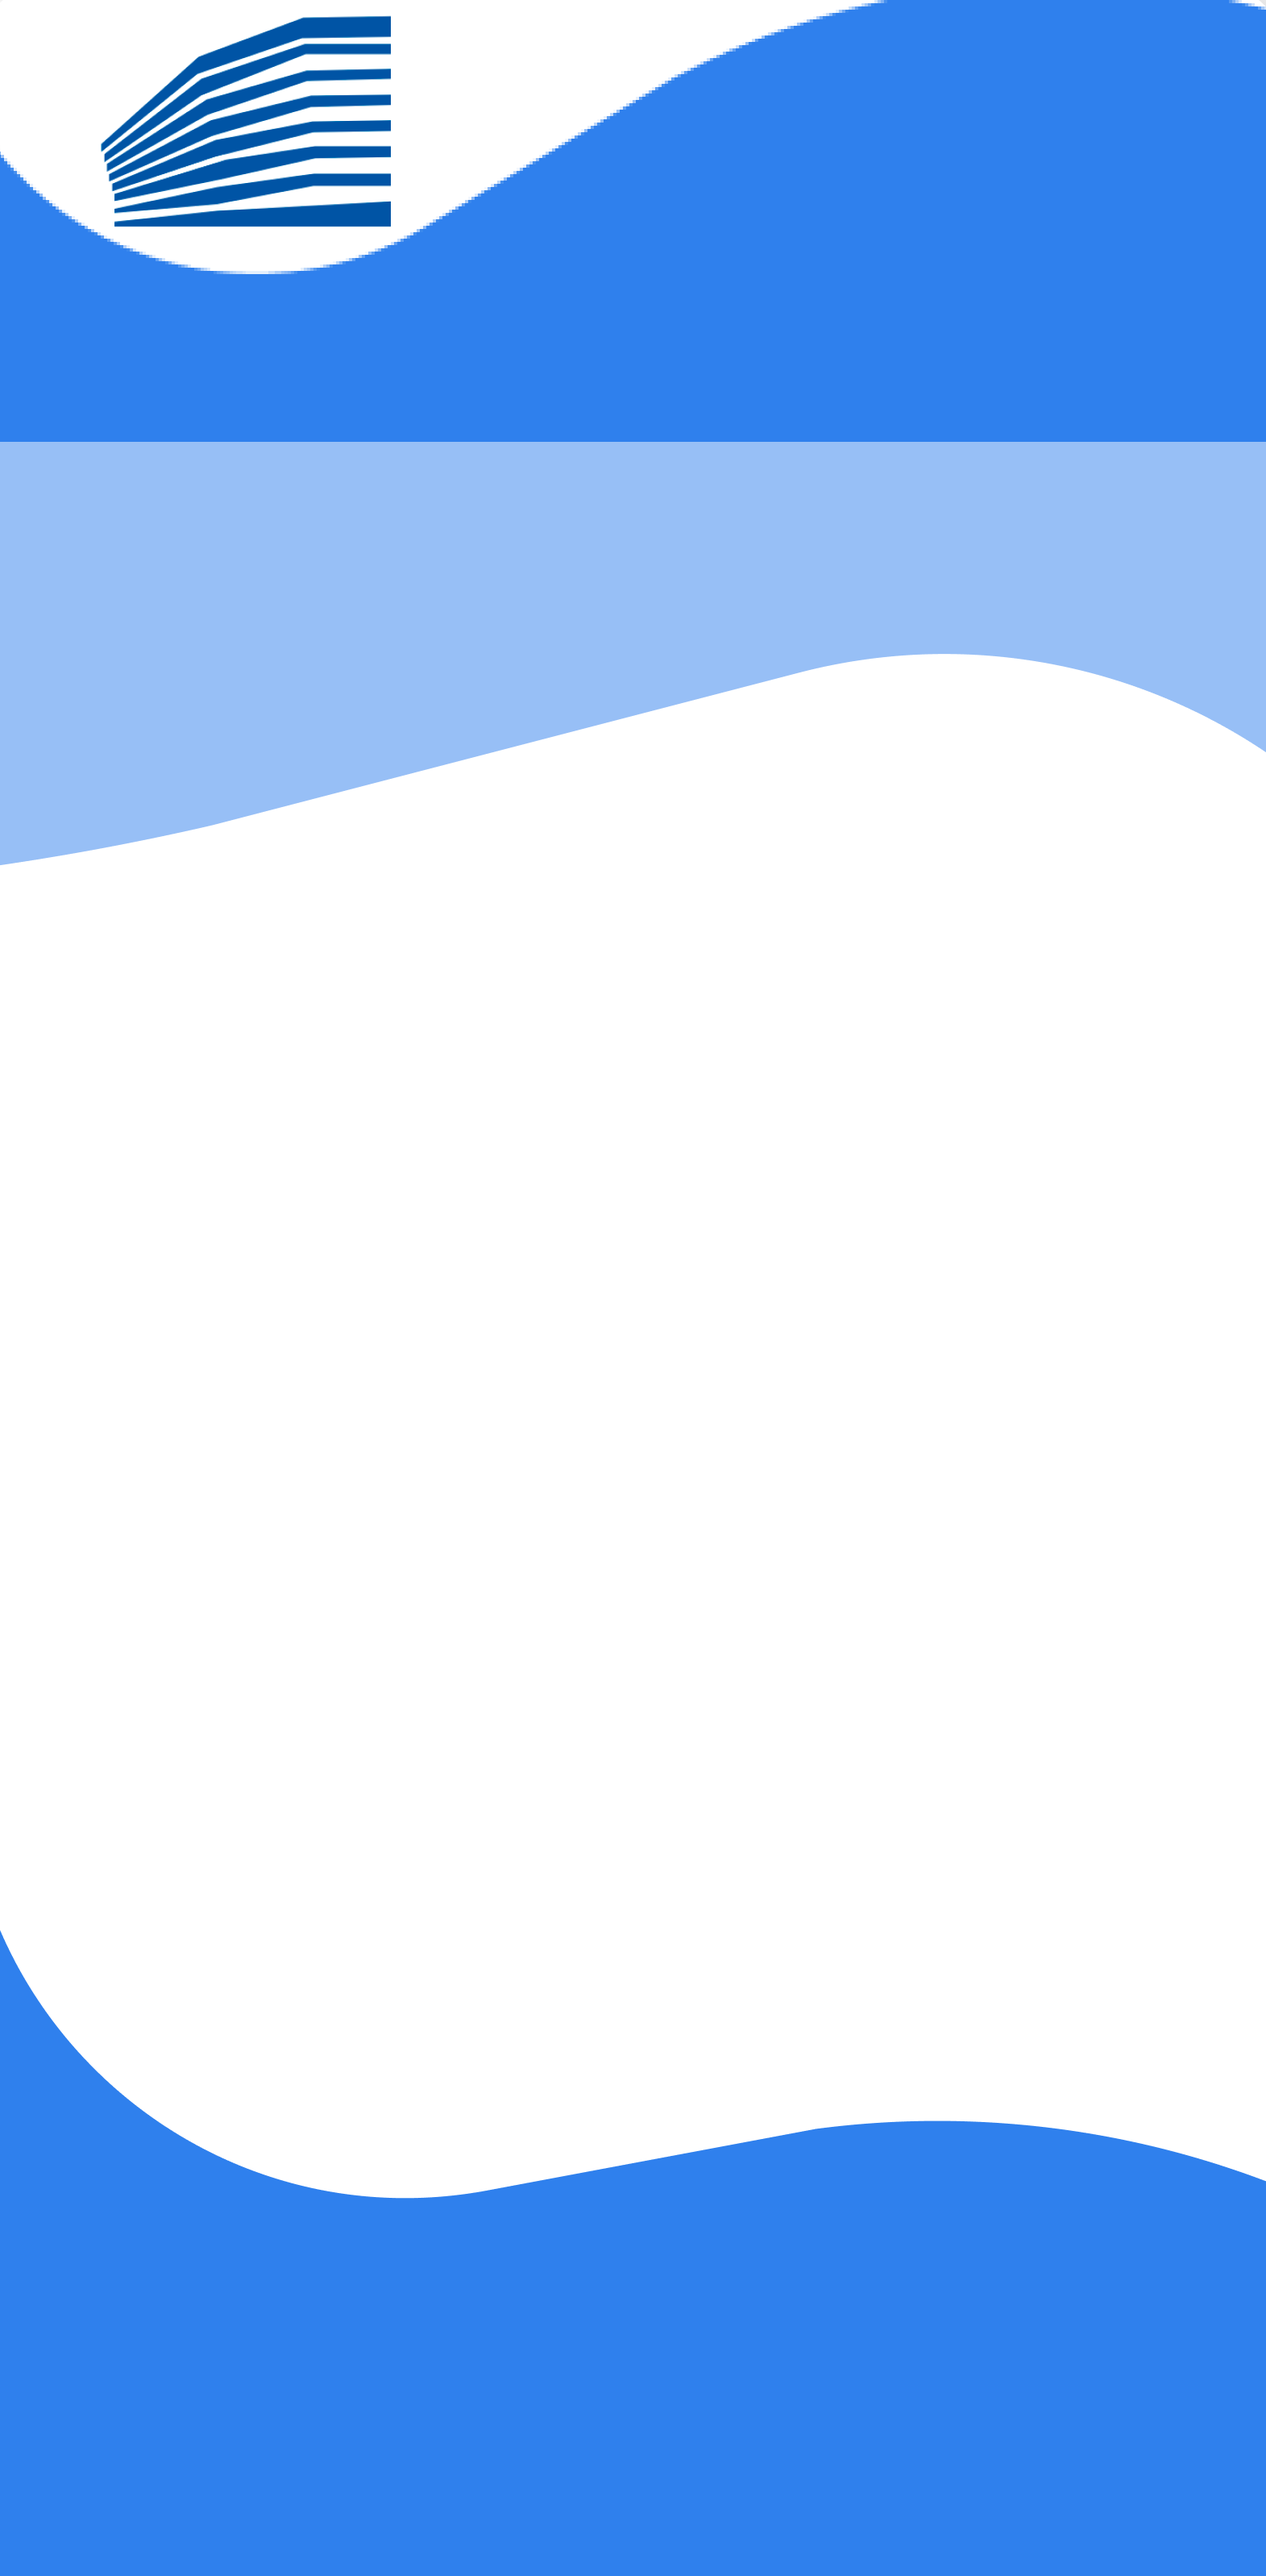
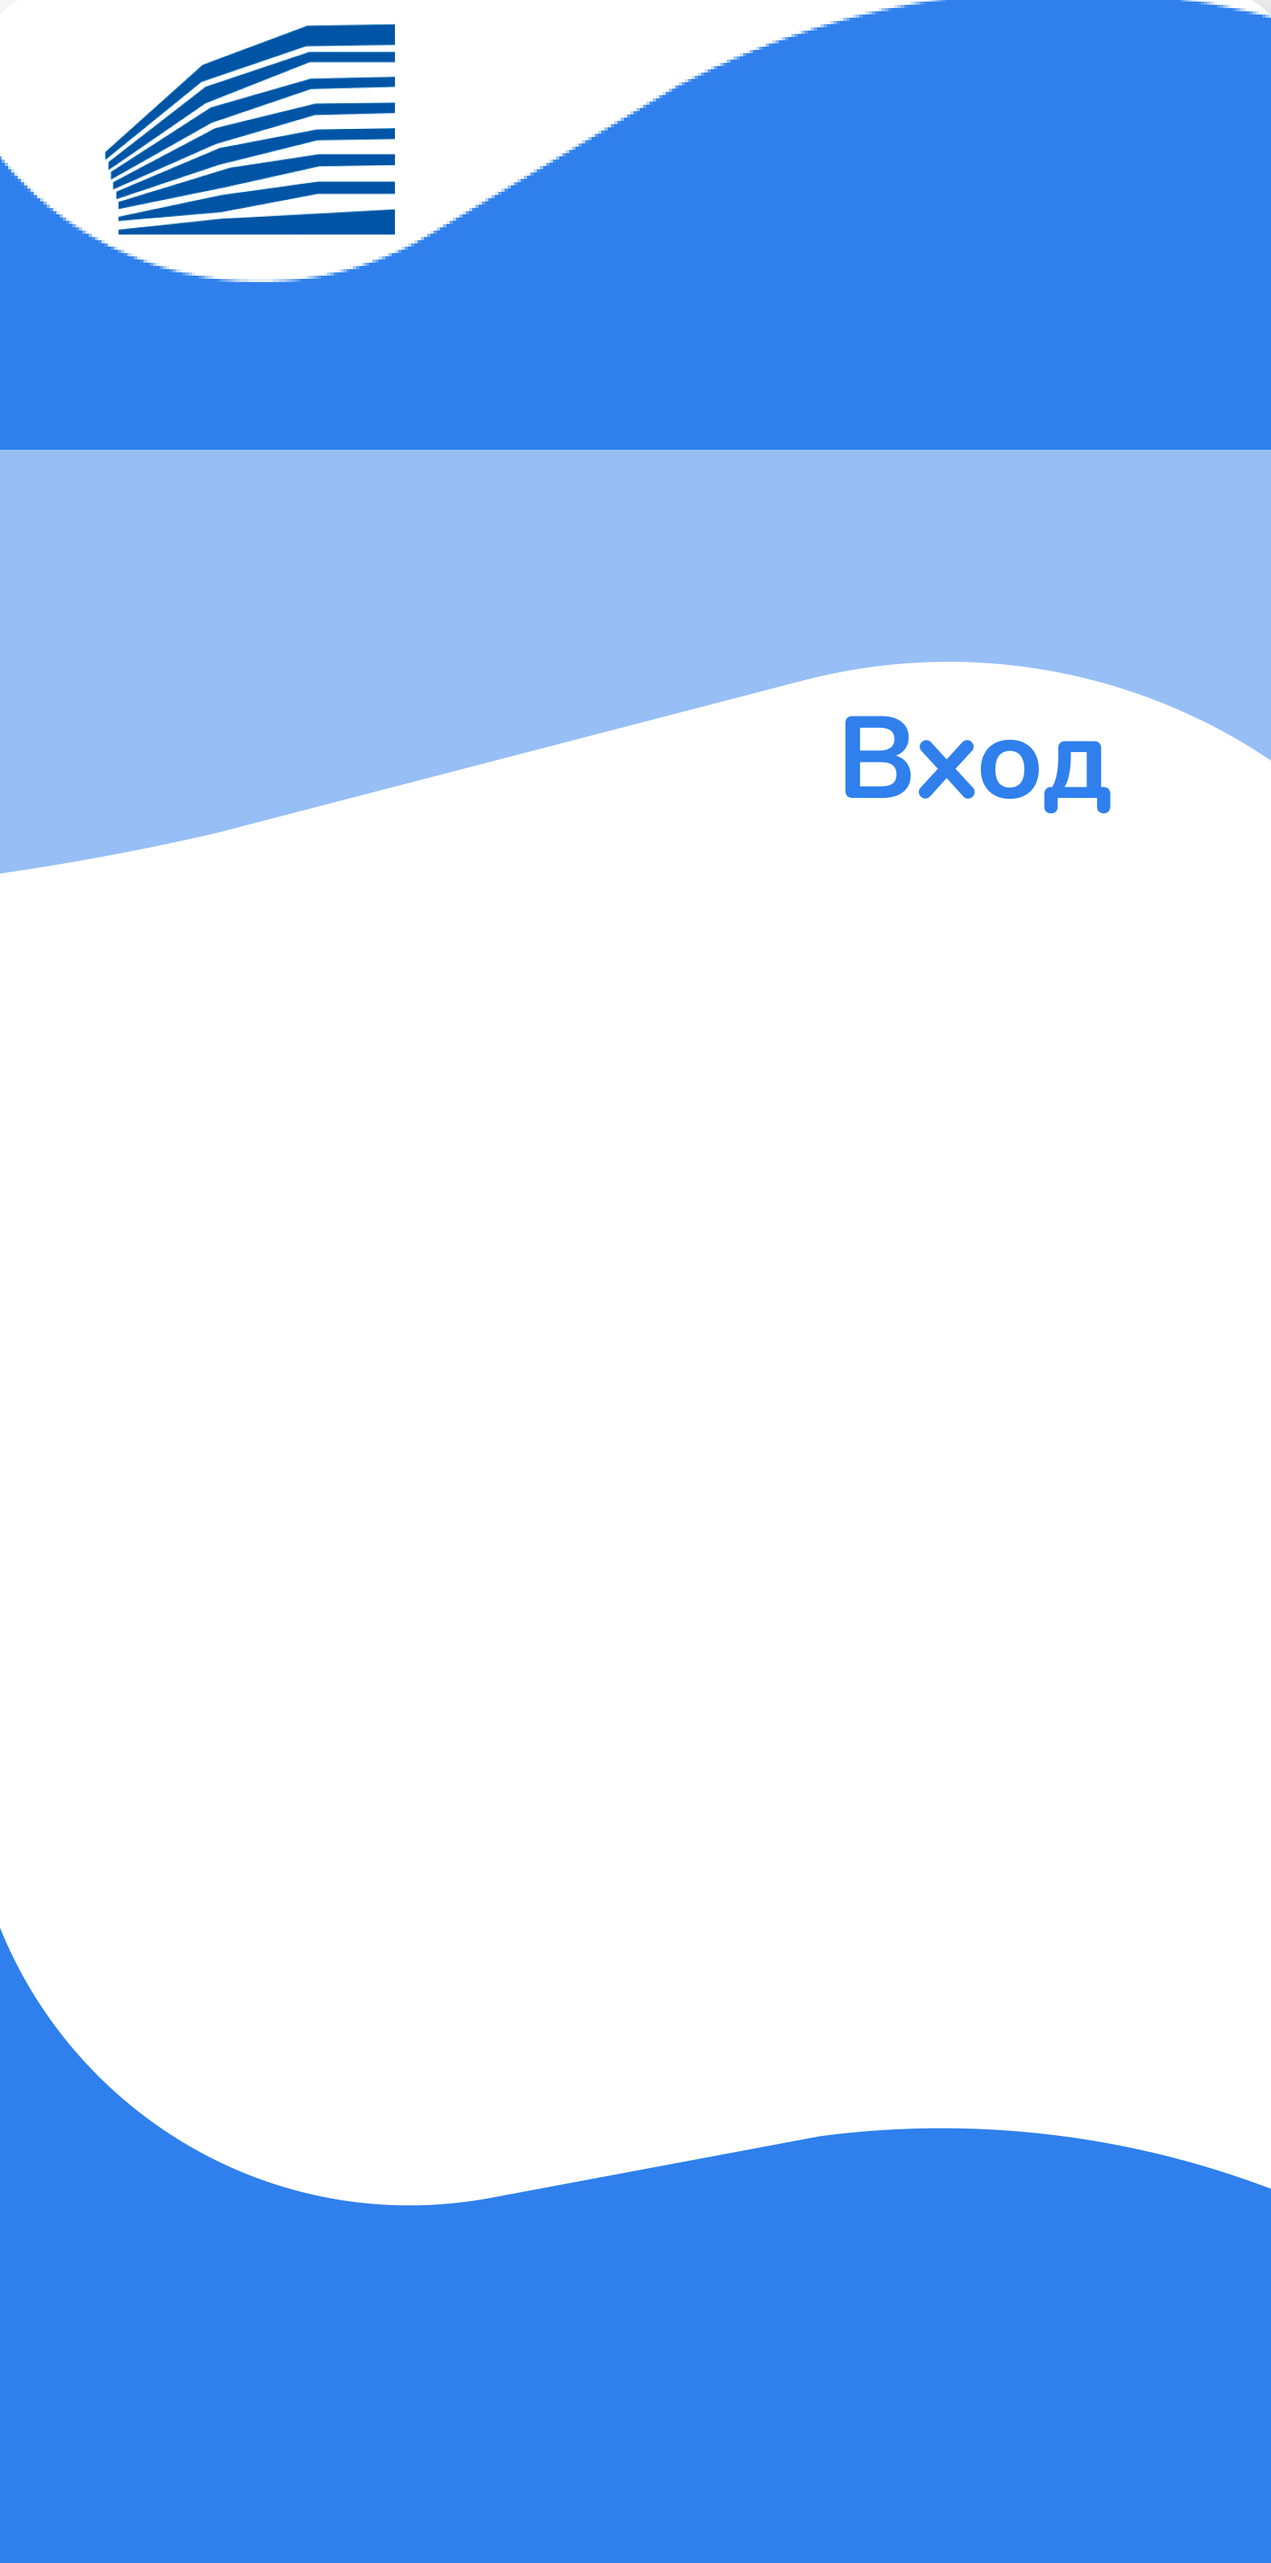
Much things

diff --git a/lib/main.dart b/lib/main.dart
@@ -1,4 +1,5 @@
 import 'package:flutter/material.dart';
+import 'package:http/http.dart' as http;
 
 void main() {
   runApp(MyApp());
@@ -31,6 +32,7 @@ class _MyHomePageState extends State<MyHomePage> {
   @override
   Widget build(BuildContext context) {
     return new Scaffold(
+        resizeToAvoidBottomPadding: false,
         body: new Stack(
       children: <Widget>[
         new Container(
@@ -45,16 +47,16 @@ class _MyHomePageState extends State<MyHomePage> {
           alignment: Alignment.bottomRight,
           padding: EdgeInsets.all(30),
           child: FlatButton(
-            shape: RoundedRectangleBorder(side: BorderSide(
-                color: Colors.white,
-                width: 1,
-                style: BorderStyle.solid
-            ), borderRadius: BorderRadius.circular(10)),
+            shape: RoundedRectangleBorder(
+                side: BorderSide(
+                    color: Colors.white, width: 1, style: BorderStyle.solid),
+                borderRadius: BorderRadius.circular(10)),
             onPressed: () {
               Navigator.push(
-                  context, MaterialPageRoute(builder: (context) => NextPage()));
+                  context, MaterialPageRoute(builder: (context) => Login()));
             },
-            child: Text('Давайте начнём!', style: TextStyle(fontSize: 15, color: Colors.white)),
+            child: Text('Давайте начнём!',
+                style: TextStyle(fontSize: 15, color: Colors.white)),
           ),
         )
       ],
@@ -62,48 +64,304 @@ class _MyHomePageState extends State<MyHomePage> {
   }
 }
 
-class NextPage extends StatefulWidget {
+class Login extends StatefulWidget {
   @override
-  _NextPage createState() => _NextPage();
+  _Login createState() => _Login();
 }
 
-class _NextPage extends State<NextPage> {
+class _Login extends State<Login> {
+  String username;
+  String password;
+
   @override
   Widget build(BuildContext context) {
-    return Scaffold(
-        appBar: AppBar(
-          title: Text('123'),
+    return new Scaffold(
+        resizeToAvoidBottomPadding: false,
+        body: new Stack(
+      children: <Widget>[
+        new Container(
+          decoration: new BoxDecoration(
+            image: new DecorationImage(
+              image: new AssetImage("assets/images/login.png"),
+              fit: BoxFit.fill,
+            ),
+          ),
         ),
-        body: Center(
+        Container(
           child: Column(
             mainAxisAlignment: MainAxisAlignment.center,
-            children: <Widget>[
+            children: [
               Container(
-                  width: 200,
+                  padding: EdgeInsets.all(10),
+                  width: 300,
                   child: Column(children: <Widget>[
                     TextField(
-                        decoration: InputDecoration(
-                      border: OutlineInputBorder(),
-                      labelText: 'Username',
-                    )),
-                    TextField(
-                        obscureText: true,
-                        decoration: InputDecoration(
-                          border: OutlineInputBorder(),
-                          labelText: 'Password',
-                        )),
-                    RaisedButton(
-                      onPressed: () {
-                        Navigator.push(
-                            context,
-                            MaterialPageRoute(
-                                builder: (context) => NextPage()));
+                      decoration: InputDecoration(
+                        border: OutlineInputBorder(
+                            borderRadius:
+                                BorderRadius.all(Radius.circular(10))),
+                        labelText: 'Имя пользователя',
+                      ),
+                      onChanged: (text) {
+                        username = text;
                       },
-                      child: Text('Butt', style: TextStyle(fontSize: 15)),
-                    )
+                    ),
+                    SizedBox(height: 10),
+                    TextField(
+                      obscureText: true,
+                      decoration: InputDecoration(
+                        border: OutlineInputBorder(
+                            borderRadius:
+                                BorderRadius.all(Radius.circular(10))),
+                        labelText: 'Пароль',
+                      ),
+                      onChanged: (text) {
+                        password = text;
+                      },
+                    ),
+                    SizedBox(height: 10),
+                    Container(
+                        alignment: Alignment.centerLeft,
+                        child: Row(
+                          mainAxisAlignment: MainAxisAlignment.spaceBetween,
+                          children: <Widget>[
+                            FlatButton(
+                              shape: RoundedRectangleBorder(
+                                  side: BorderSide(
+                                      color: Colors.blueAccent,
+                                      width: 1,
+                                      style: BorderStyle.solid),
+                                  borderRadius: BorderRadius.circular(8)),
+                              onPressed: () {
+                                // testReq(username, password).then((value) => {
+                                //   print(value),
+                                //       if (value)
+                                //         {
+                                Navigator.push(
+                                    context,
+                                    MaterialPageRoute(
+                                        builder: (context) => Admin()));
+                                //     }
+                                // });
+                              },
+                              child: Text('Войти',
+                                  style: TextStyle(
+                                      fontSize: 15, color: Colors.blueAccent)),
+                            ),
+                            FlatButton(
+                              shape: RoundedRectangleBorder(
+                                  borderRadius: BorderRadius.circular(8)),
+                              onPressed: () {},
+                              child: Text('Забыли пароль?',
+                                  style: TextStyle(
+                                      fontSize: 15, color: Colors.blueAccent)),
+                            ),
+                          ],
+                        )),
                   ])),
             ],
           ),
-        ));
+        ),
+        Container(
+          alignment: Alignment.bottomCenter,
+          padding: EdgeInsets.only(bottom: 30),
+          child: FlatButton(
+            shape:
+                RoundedRectangleBorder(borderRadius: BorderRadius.circular(8)),
+            onPressed: () {
+              Navigator.push(context,
+                  MaterialPageRoute(builder: (context) => Registration()));
+            },
+            child: Text('Зарегистрируйтесь',
+                style: TextStyle(fontSize: 15, color: Colors.white)),
+          ),
+        ),
+      ],
+    ));
   }
+}
+
+Future<bool> testReq(String login, String pass) async {
+  var response = await http.get(
+      'https://hackathon-september.herokuapp.com/login?username=' +
+          login +
+          '&password=' +
+          pass);
+  print(response.body);
+  if (response.body == 'ok')
+    return true;
+  else
+    return false;
+}
+
+class Registration extends StatefulWidget {
+  @override
+  _Registration createState() => _Registration();
+}
+
+class _Registration extends State<Registration> {
+  @override
+  Widget build(BuildContext context) {
+    return new Scaffold(
+        resizeToAvoidBottomPadding: false,
+        body: new Stack(children: <Widget>[
+      new Container(
+        decoration: new BoxDecoration(
+          image: new DecorationImage(
+            image: new AssetImage("assets/images/register.png"),
+            fit: BoxFit.fill,
+          ),
+        ),
+      ),
+      Container(
+        child: Column(
+          mainAxisAlignment: MainAxisAlignment.center,
+          children: [
+            Container(
+                padding: EdgeInsets.only(left: 10, top: 50),
+                width: 300,
+                child: Column(children: <Widget>[
+                  TextField(
+                    decoration: InputDecoration(
+                      border: OutlineInputBorder(
+                          borderRadius: BorderRadius.all(Radius.circular(10))),
+                      labelText: 'Имя пользователя',
+                    ),
+                    onChanged: (text) {},
+                  ),
+                  SizedBox(height: 10),
+                  TextField(
+                    obscureText: true,
+                    decoration: InputDecoration(
+                      border: OutlineInputBorder(
+                          borderRadius: BorderRadius.all(Radius.circular(10))),
+                      labelText: 'Пароль',
+                    ),
+                    onChanged: (text) {},
+                  ),
+                  SizedBox(height: 10),
+                  TextField(
+                    obscureText: true,
+                    decoration: InputDecoration(
+                      border: OutlineInputBorder(
+                          borderRadius: BorderRadius.all(Radius.circular(10))),
+                      labelText: 'Пароль',
+                    ),
+                    onChanged: (text) {},
+                  ),
+                  SizedBox(height: 10),
+                  Container(
+                      alignment: Alignment.centerLeft,
+                      child: Row(
+                        mainAxisAlignment: MainAxisAlignment.spaceBetween,
+                        children: <Widget>[
+                          FlatButton(
+                            shape: RoundedRectangleBorder(
+                                side: BorderSide(
+                                    color: Colors.blueAccent,
+                                    width: 1,
+                                    style: BorderStyle.solid),
+                                borderRadius: BorderRadius.circular(8)),
+                            onPressed: () {},
+                            child: Text('Регистрация',
+                                style: TextStyle(
+                                    fontSize: 15, color: Colors.blueAccent)),
+                          ),
+                          FlatButton(
+                            shape: RoundedRectangleBorder(
+                                borderRadius: BorderRadius.circular(8)),
+                            onPressed: () {},
+                            child: Text('Забыли пароль?',
+                                style: TextStyle(
+                                    fontSize: 15, color: Colors.blueAccent)),
+                          ),
+                        ],
+                      )),
+                ])),
+          ],
+        ),
+      ),
+      Container(
+        alignment: Alignment.bottomCenter,
+        padding: EdgeInsets.only(bottom: 30),
+        child: FlatButton(
+          shape: RoundedRectangleBorder(borderRadius: BorderRadius.circular(8)),
+          onPressed: () {
+            Navigator.push(
+                context, MaterialPageRoute(builder: (context) => Login()));
+          },
+          child: Text('Войти',
+              style: TextStyle(fontSize: 15, color: Colors.white)),
+        ),
+      ),
+    ]));
+  }
+}
+
+class Admin extends StatefulWidget {
+  @override
+  _Admin createState() => _Admin();
+}
+
+class _Admin extends State<Admin> {
+  List<String> numberTruthList = [
+    'Заявление афа',
+    'Заявление ыаып',
+    'Заявление ваыпф',
+    'Заявление ывпцфы',
+    'Заявление ыпыыуп',
+    'Заявление ываып'
+  ];
+  List<bool> states = [
+    true,
+    false,
+    false,
+    false,
+    true,
+    true
+  ];
+
+  @override
+  Widget build(BuildContext context) {
+    return MaterialApp(
+      home: Scaffold(
+          resizeToAvoidBottomPadding: false,
+          appBar: AppBar(
+            title: Text('Гжегож Бженчишчикевич',
+                style: TextStyle(color: Colors.white)),
+          ),
+          body: Center(
+              child: ListView.builder(
+            itemCount: 6,
+            itemBuilder: (context, i) {
+              return ListTile(
+                title: Text(numberTruthList[i]),
+                trailing: Icon(   // NEW from here...
+                  states[i] ? Icons.check : Icons.cancel,
+                  color: states[i] ? Colors.green : Colors.red,
+                ),
+                onTap: () {
+                  setState(() {
+                    states[i] = !states[i];
+                  });
+                },
+              );
+            },
+          ))),
+    );
+  }
+}
+
+class NewApp extends StatefulWidget {
+  @override
+  _NewApp createState() => _NewApp();
+}
+
+class _NewApp extends State<NewApp> {
+  @override
+  Widget build(BuildContext context) {
+    // TODO: implement build
+    throw UnimplementedError();
+  }
+
 }
